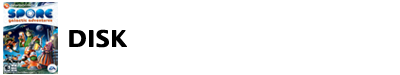
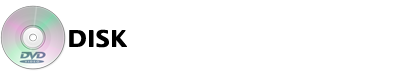
Spore ModAPI Launcher: remove unused images

Changed region(s): [[0.0, 0.0267, 0.18, 0.9867]]

diff --git a/Spore ModAPI Launcher/Properties/Resources.Designer.cs b/Spore ModAPI Launcher/Properties/Resources.Designer.cs
@@ -73,59 +73,9 @@ namespace SporeModAPI_Launcher.Properties {
         /// <summary>
         ///   Looks up a localized resource of type System.Drawing.Bitmap.
         /// </summary>
-        internal static System.Drawing.Bitmap Valve_Steam_Logo {
-            get {
-                object obj = ResourceManager.GetObject("Valve_Steam_Logo", resourceCulture);
-                return ((System.Drawing.Bitmap)(obj));
-            }
-        }
-        
-        /// <summary>
-        ///   Looks up a localized resource of type System.Drawing.Bitmap.
-        /// </summary>
-        internal static System.Drawing.Bitmap VersionButton_Disk {
-            get {
-                object obj = ResourceManager.GetObject("VersionButton_Disk", resourceCulture);
-                return ((System.Drawing.Bitmap)(obj));
-            }
-        }
-        
-        /// <summary>
-        ///   Looks up a localized resource of type System.Drawing.Bitmap.
-        /// </summary>
-        internal static System.Drawing.Bitmap VersionButton_Disk_Pirated {
-            get {
-                object obj = ResourceManager.GetObject("VersionButton_Disk_Pirated", resourceCulture);
-                return ((System.Drawing.Bitmap)(obj));
-            }
-        }
-        
-        /// <summary>
-        ///   Looks up a localized resource of type System.Drawing.Bitmap.
-        /// </summary>
-        internal static System.Drawing.Bitmap VersionButton_Disk2 {
-            get {
-                object obj = ResourceManager.GetObject("VersionButton_Disk2", resourceCulture);
-                return ((System.Drawing.Bitmap)(obj));
-            }
-        }
-        
-        /// <summary>
-        ///   Looks up a localized resource of type System.Drawing.Bitmap.
-        /// </summary>
         internal static System.Drawing.Bitmap VersionButton_Disk3 {
             get {
                 object obj = ResourceManager.GetObject("VersionButton_Disk3", resourceCulture);
-                return ((System.Drawing.Bitmap)(obj));
-            }
-        }
-        
-        /// <summary>
-        ///   Looks up a localized resource of type System.Drawing.Bitmap.
-        /// </summary>
-        internal static System.Drawing.Bitmap VersionButton_Origin {
-            get {
-                object obj = ResourceManager.GetObject("VersionButton_Origin", resourceCulture);
                 return ((System.Drawing.Bitmap)(obj));
             }
         }
